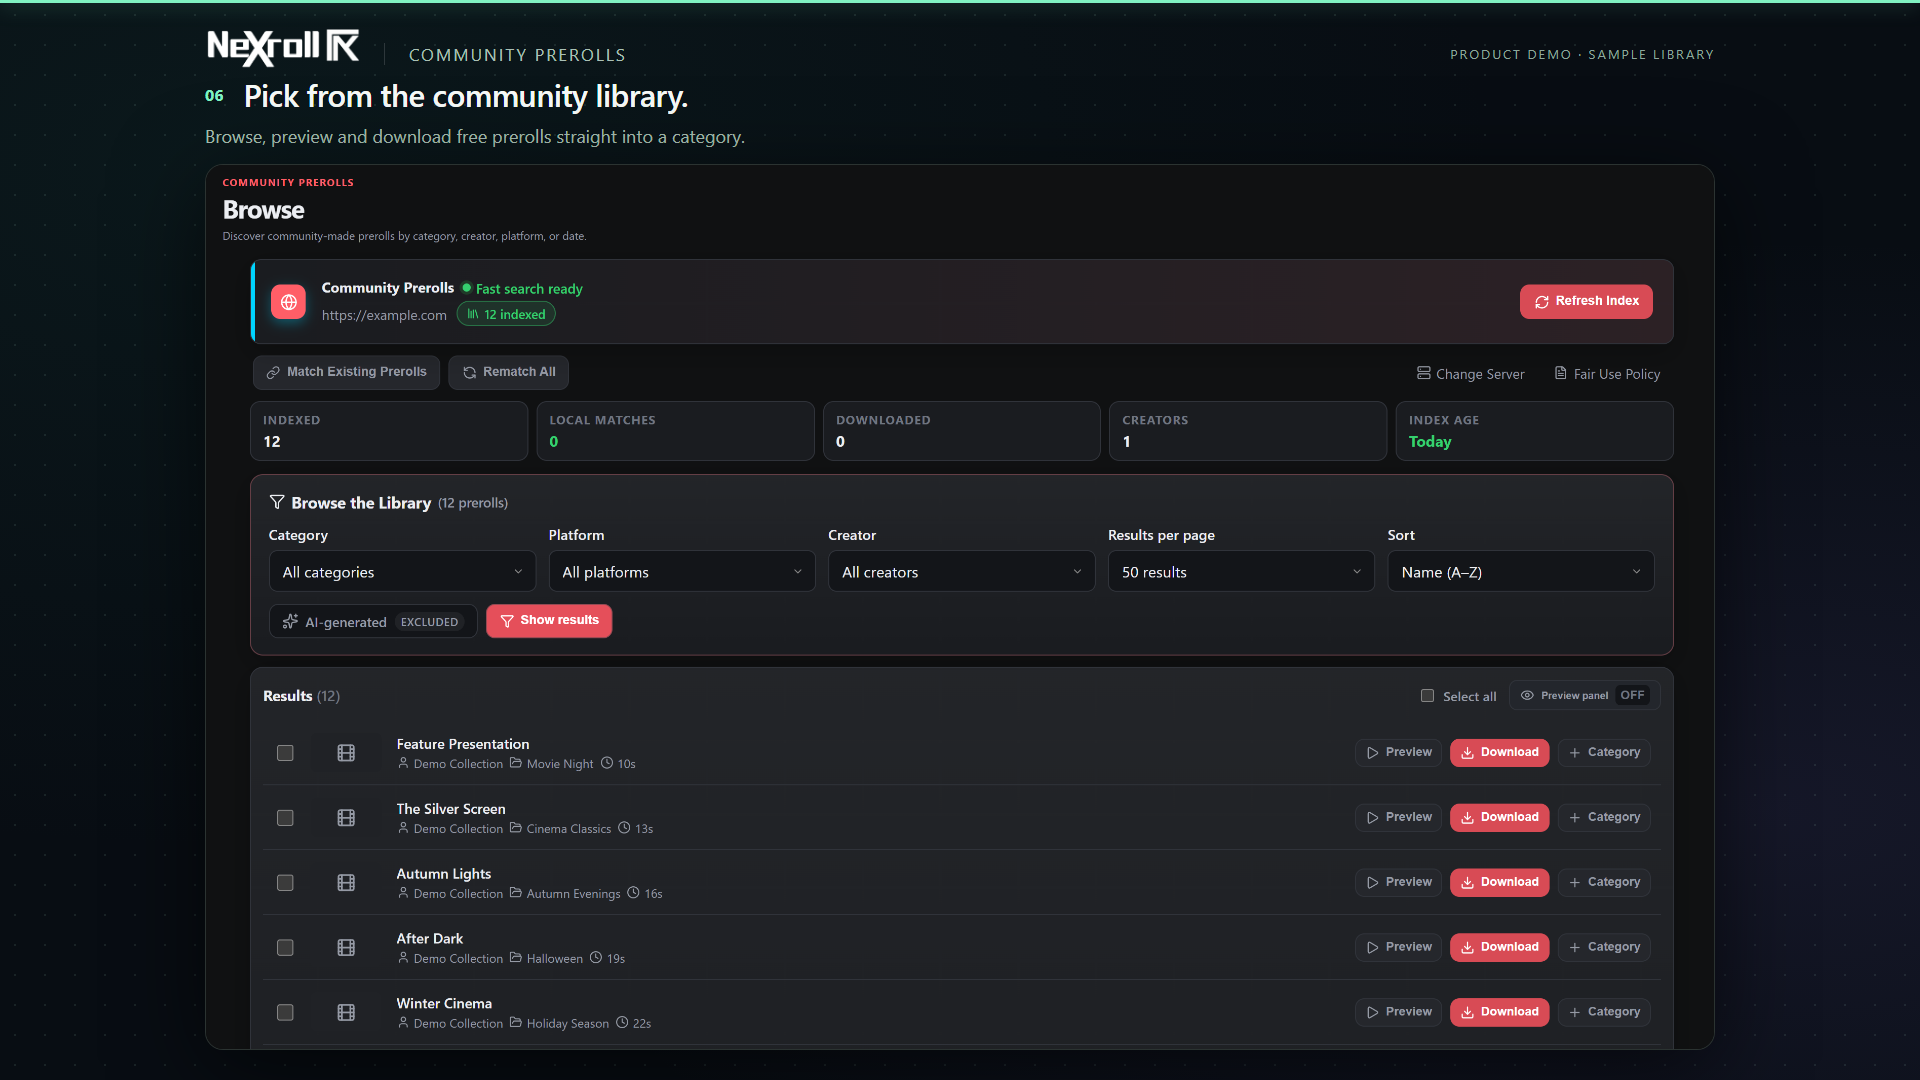
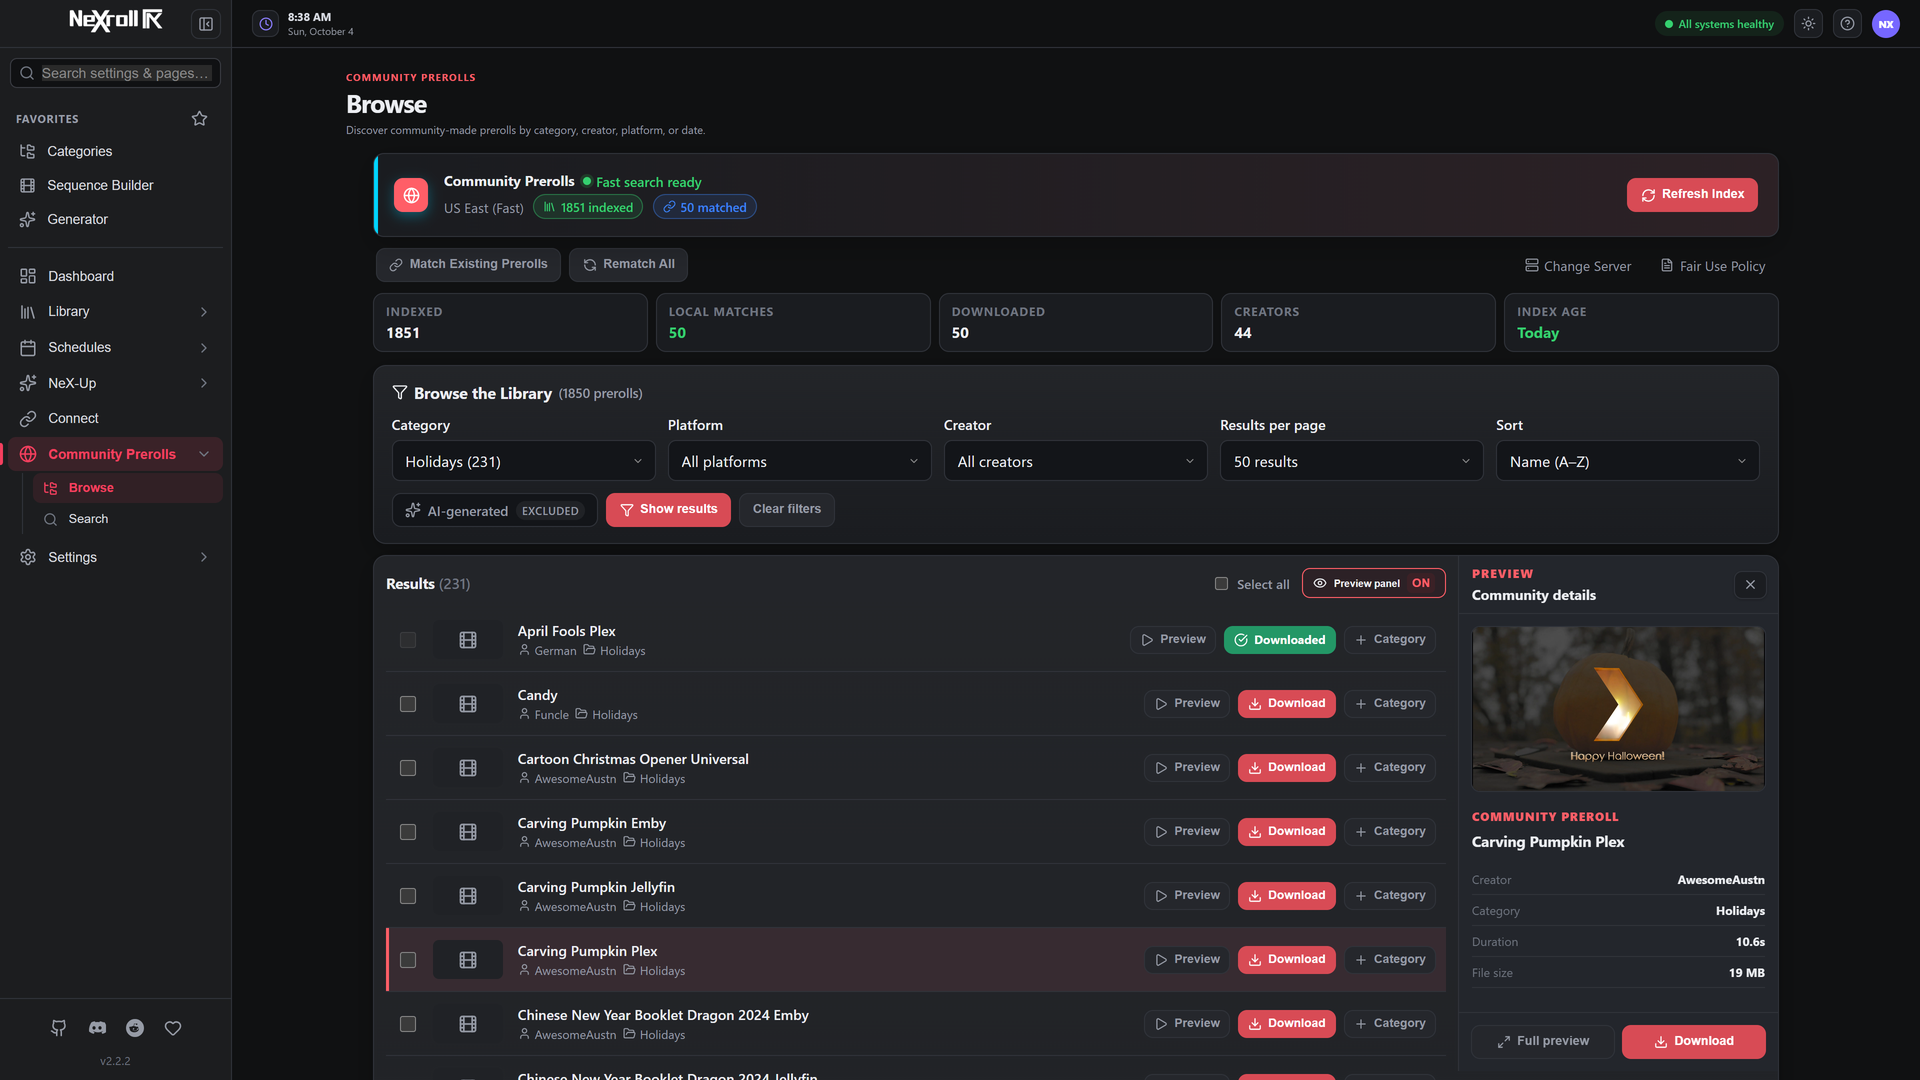
Use full-window README screenshots with real library data

diff --git a/docs/screenshots/v2.2.0/README.md b/docs/screenshots/v2.2.0/README.md
@@ -1,12 +1,13 @@
 # Screenshots for the README
 
-All seven images share one frame: the dark backdrop, logo row, numbered headline and rounded app panel from the Flow view demo recording, with the "product demo, sample library" label. The folder keeps its 2.2.0 name so existing links still work.
+All seven are full-window browser captures (1920x1080, captured at 2x and scaled down) in the Midnight theme, taken October 4, 2026. The folder keeps its 2.2.0 name so existing links still work.
 
-`sequence-flow.png` was added for 2.2.0-beta.11. It is a frame of the Flow view demo recording, and its "07" chapter number comes from that recording. The sequence, categories and trailer titles in it are demonstration data. It was reduced to a 256-colour palette.
+The pages were rendered by the frontend from the working tree after the 2.2.2 release. That build includes two fixes not in 2.2.2: Library Trailers no longer count as uncategorized, and the Schedules page's "Today's run" lists the running schedule first.
 
-The other six (dashboard, library, schedules, calendar, generator, community) replaced the September 2026 beta.9 captures on October 3, 2026. They are browser captures of the 2.2.2 frontend build at 1920x1080 and 2x scale, in the Midnight theme, with the clock fixed to October 8, 2026. The sidebar and top bar are cropped out. Each capture was placed in the frame by the `ReadmeStill` composition in `launch-video/src/ReadmeStills.jsx`. They are saved as lossless full-colour PNGs, because a 256-colour palette banded the thumbnail and glow gradients.
-
-The browser used example API responses for the library, schedules, connections, system health, Library Trailers, Favorites and the community catalog. Names, statistics and server details are fictional. The library thumbnails are original SVG demonstration artwork. Generator Studio shows its actual live canvas preview. No live media-server data, credentials or community downloads were used.
+- `dashboard.png`, `schedules.png` and `community.png` show the maintainer's own NeXroll install, read through its API with every write request blocked. On the dashboard, the Plex server address is blurred because a plex.direct hostname contains the server's unique ID.
+- `library.png` shows 20 prerolls from the same install, with their real names, categories and thumbnails, served from a mocked API so the grid shows a chosen set. Third-party footage (TV bumpers, film clips, studio logos, movie trailers) was left out.
+- `calendar.png` and `generator.png` use example API responses. Schedule and server names are fictional. Generator Studio shows its actual live canvas preview.
+- `sequence-flow.png` comes from the Flow view demo script (`launch-video/scripts/capture-flow-demo.cjs`), stopped at the step where NeX-Up trailers play when available and a category plays otherwise. Its sequence and category names are demonstration data.
 
 The two `readme-preview-*` images show the local Markdown preview of the 2.2.0 draft in light and dark mode.
 

diff --git a/README.md b/README.md
@@ -22,7 +22,7 @@ Self-hosted on **Windows, Docker, or Unraid**, with everything managed from your
 
 ![The NeXroll dashboard showing the current and next schedule, system health, library and storage](docs/screenshots/v2.2.0/dashboard.png)
 
-*Screenshots show NeXroll 2.2 with example data and demonstration artwork.*
+*Screenshots show NeXroll 2.2. The dashboard, schedules, community and library views come from a real install; the rest use example data.*
 
 ## Features at a glance
 
@@ -73,7 +73,7 @@ Add a personal touch with custom welcome screens, announcements, and Coming Soon
 
 Find a new opening for your next movie night. Browse the collection, preview videos, and add your favorites straight to your library.
 
-![Community browsing with filters and a list of example prerolls](docs/screenshots/v2.2.0/community.png)
+![Community browsing filtered to holiday prerolls, with the preview panel showing one of them](docs/screenshots/v2.2.0/community.png)
 
 Powered by [TypicalNerds](https://typicalnerds.uk/). Thank you to TypicalNerds and the creators who share their work with the community.
 
